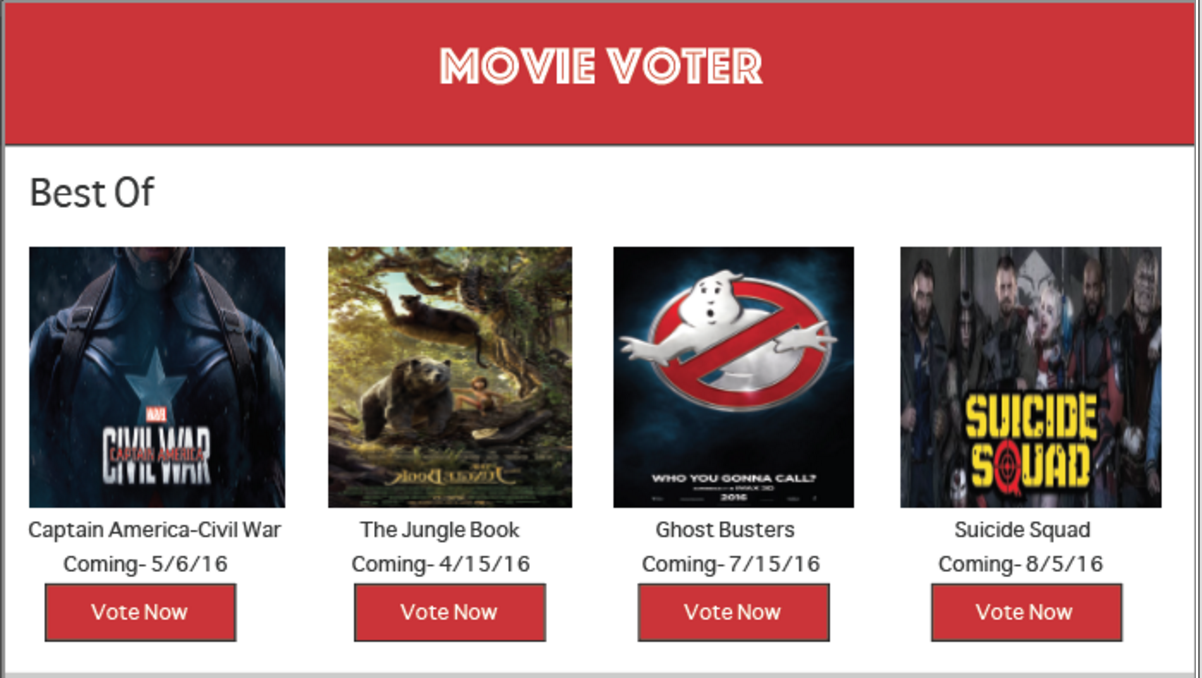
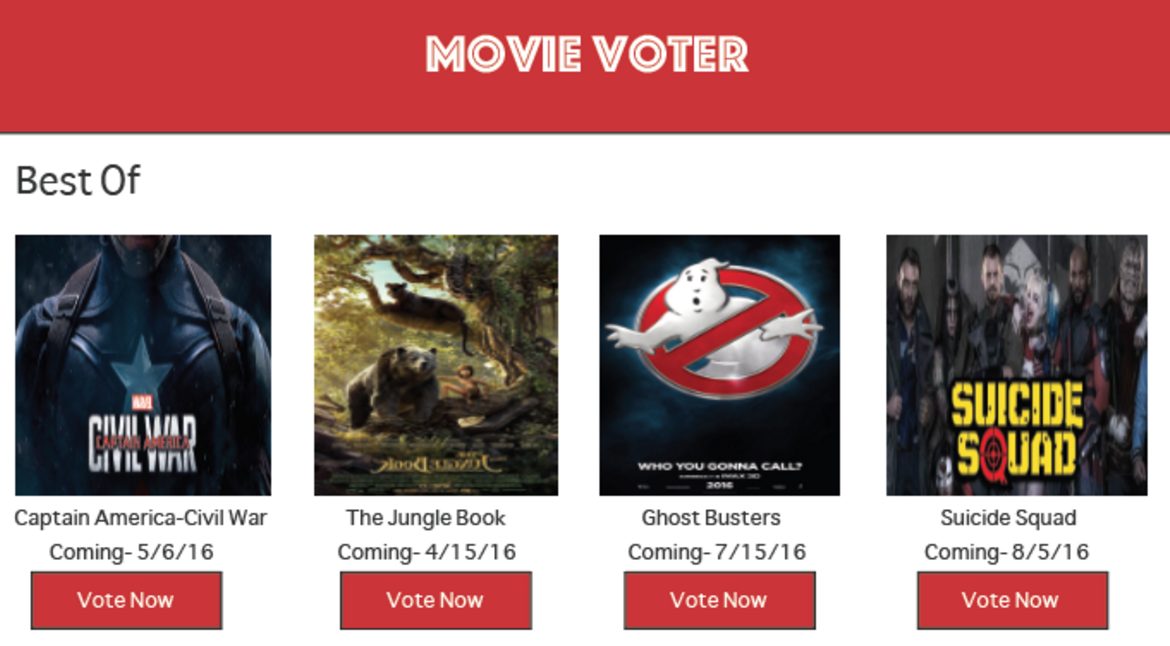
resized imag
removed classes from h

modified the js

added height to the thumbnail

diff --git a/source/stylesheets/site.css.scss b/source/stylesheets/site.css.scss
@@ -102,21 +102,22 @@ header {
 // ----------------------Project section-----------------
 
 .thumbnail {
-        position: relative;
-        padding: 0px;
-        margin-bottom: 20px;
-    }
+  position: relative;
+  padding: 0px;
+  margin-bottom: 20px;
+  height: 62em;
+  }
 
 .thumbnail:hover {
-    background-color: $lightorange;
+  background-color: $lightorange;
 }
 
 .thumbnail img {
-       width: 100%;
-   }
-   
+  width: 100%;
+ }
+
 // ---------------------Contact section------------------
-.main3 {
+.row3 {
 
   li {
     display: inline-block;

diff --git a/source/javascripts/all.js b/source/javascripts/all.js
@@ -322,4 +322,10 @@ $(document).ready(function() {
           $("li").removeClass("active");
           $(this).addClass("active");
         });
+
+// boxes = $(".projects");
+// maxHeight = Math.max.apply(Math, boxes.map(function () {
+//     return $(this).height()
+// }).get());
+// boxes.height(maxHeight);
 });
